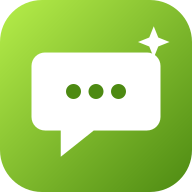
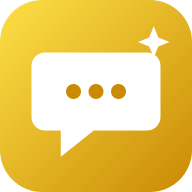
SIM Message: switch concept color to yellow
Claude-Session: https://claude.ai/code/session_01JdTac7uwmMdoy5PhpfgnAy

diff --git a/message.html b/message.html
@@ -14,7 +14,7 @@
 <style>
 :root{
   --bg:#0f1117; --panel:#171a23; --panel2:#1f2330; --line:#2a2f3f;
-  --text:#e8eaf0; --sub:#8b92a8; --accent:#a3e635; --accent2:#84cc16; --ink:#10200a; --ok:#3ecf8e; --warn:#ffb86b; --bad:#ff6b6b;
+  --text:#e8eaf0; --sub:#8b92a8; --accent:#facc15; --accent2:#eab308; --ink:#2a2000; --ok:#3ecf8e; --warn:#ffb86b; --bad:#ff6b6b;
 }
 *{box-sizing:border-box;margin:0;padding:0;-webkit-tap-highlight-color:transparent}
 html,body{min-height:100%}
@@ -49,7 +49,7 @@ main{max-width:680px;margin:0 auto;padding:12px 12px calc(40px + env(safe-area-i
 .kind .e{font-size:26px}
 .kind b{font-size:14px}
 .kind small{font-size:11px;color:var(--sub)}
-.kind.on{border-color:var(--accent);background:rgba(163,230,53,.1)}
+.kind.on{border-color:var(--accent);background:rgba(250,204,21,.1)}
 .chips{display:flex;flex-wrap:wrap;gap:6px}
 .chip{padding:6px 12px;border-radius:99px;font-size:13px;background:var(--panel2);border:1px solid var(--line);cursor:pointer;user-select:none}
 .chip.on{background:var(--accent);border-color:var(--accent);color:var(--ink);font-weight:700}
@@ -61,7 +61,7 @@ main{max-width:680px;margin:0 auto;padding:12px 12px calc(40px + env(safe-area-i
 .rc{display:flex;align-items:center;gap:6px;padding:5px 6px 5px 11px;border-radius:99px;background:var(--panel2);border:1px solid var(--line);font-size:13px}
 .rc button{padding:0 6px;border:0;background:transparent;color:var(--sub);font-size:16px;line-height:1}
 .var{padding:11px 12px;border-radius:12px;border:1.5px solid var(--line);background:var(--panel2);margin-top:8px;cursor:pointer;white-space:pre-wrap;font-size:14px;line-height:1.55}
-.var.on{border-color:var(--accent);background:rgba(163,230,53,.08)}
+.var.on{border-color:var(--accent);background:rgba(250,204,21,.08)}
 .var .vl{display:inline-block;font-size:11px;font-weight:700;color:var(--ink);background:var(--accent);padding:1px 8px;border-radius:99px;margin-bottom:5px}
 .cnt{display:flex;justify-content:space-between;font-size:12px;color:var(--sub);margin-top:6px}
 .prev{margin-top:10px;padding:12px;border-radius:14px;background:#0b0d13;border:1px dashed var(--line);white-space:pre-wrap;font-size:14px;line-height:1.6}
@@ -72,7 +72,7 @@ main{max-width:680px;margin:0 auto;padding:12px 12px calc(40px + env(safe-area-i
 audio{width:100%;margin-top:10px;height:40px}
 .list{display:flex;flex-direction:column;gap:6px;margin-top:8px;max-height:260px;overflow-y:auto}
 .item{display:flex;gap:10px;align-items:center;padding:9px 11px;border-radius:12px;border:1.5px solid var(--line);background:var(--panel2);cursor:pointer}
-.item.on{border-color:var(--accent);background:rgba(163,230,53,.08)}
+.item.on{border-color:var(--accent);background:rgba(250,204,21,.08)}
 .item .t{font-weight:600;font-size:14px}
 .item .s{font-size:12px;color:var(--sub)}
 .item .dt{font-size:12px;color:var(--accent);white-space:nowrap}

diff --git a/index.html b/index.html
@@ -109,7 +109,7 @@ a.card:active{transform:scale(.98)}
     { id: 'assistant', color: '#4cc9f0', name: 'SIM Assistant', desc: '음성 비서 · 메모 · 연락처 저장/검색 · 전화 · 일정 · 알람', url: 'assistant.html', icon: 'assistant-icon-192.png', tag: '음성비서' },
     { id: 'calendar', color: '#ff6b6b', name: 'SIM Calendar', desc: '월·주·일 달력 · 공휴일 · 음성비서 일정 자동 기록', url: 'calendar.html', icon: 'calendar-icon-192.png', tag: '일정' },
     { id: 'folder', color: '#c8946a', name: 'SIM Folder', desc: '내 전용 서버 폴더 · 업로드 · 내 기기로 받기', url: 'folder.html', icon: 'folder-icon-192.png', tag: '파일저장소' },
-    { id: 'message', color: '#a3e635', name: 'SIM Message', desc: 'AI 문자 작성 · 인사·상품소개·일정안내 · 이미지·멜로디·음성 · 바로 보내기', url: 'message.html', icon: 'message-icon-192.png', tag: '문자' }
+    { id: 'message', color: '#facc15', name: 'SIM Message', desc: 'AI 문자 작성 · 인사·상품소개·일정안내 · 이미지·멜로디·음성 · 바로 보내기', url: 'message.html', icon: 'message-icon-192.png', tag: '문자' }
   ];
 
   const $ = id => document.getElementById(id);

diff --git a/sw.js b/sw.js
@@ -1,6 +1,6 @@
 // SIM Tools service worker: 앱 껍데기(HTML·아이콘)만 캐시. 방송 스트림 등 외부 요청은 건드리지 않음.
 // 새 툴 파일을 추가하면 SHELL 목록에 넣고 CACHE 숫자를 올리세요.
-const CACHE = 'simwebtools-shell-v50';
+const CACHE = 'simwebtools-shell-v51';
 const SHELL = ['./', './index.html', './tv.html', './note.html', './manifest.webmanifest',
   './icon-192.png', './icon-512.png', './icon-maskable-512.png', './apple-touch-icon.png', './tv-icon-192.png', './note-icon-192.png', './phone.html', './phone-icon-192.png', './aitel.html', './aitel-icon-192.png', './assistant.html', './assistant-icon-192.png', './calendar.html', './calendar-icon-192.png', './folder.html', './folder-icon-192.png', './message.html', './message-icon-192.png'];
 
